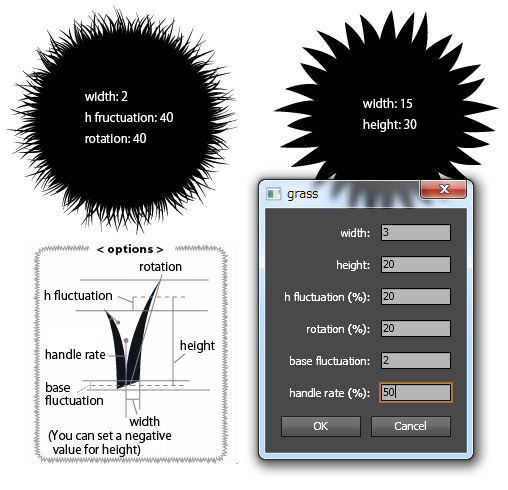
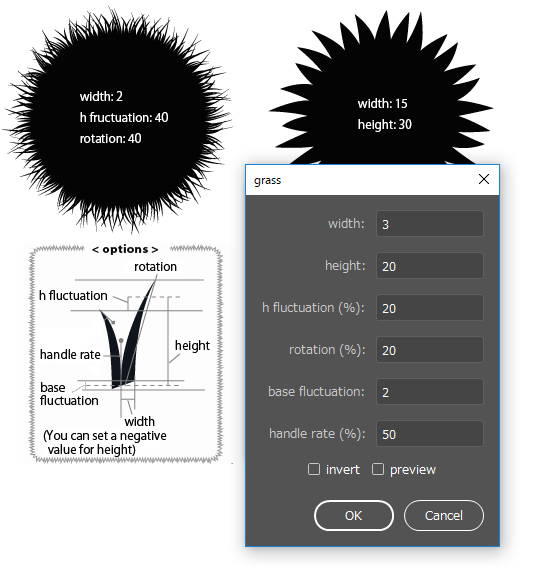
etc/grass.jsx : add an "invert" checkbox and a preview button

diff --git a/etc/grass.jsx b/etc/grass.jsx
@@ -4,11 +4,15 @@
 // See the description image for the optional values.
 
 // Note:
-// Smaller width value causes longer calculation time.
+// * Smaller width value causes longer calculation time.
+// * Because of this issue, preview checkbox is forced unchecked
+//   when any value in the dialog is changed. Please check it
+//   manually again to draw a preview.
 
 // test env: Adobe Illustrator CS3, CS6 (Windows)
 // 2013-01-26
 // 2016-11-26 modify not to activate textedit (fix a problem which forces an extra click after closing the dialog)
+// 2017-01-18 add an "invert" checkbox and a preview button
 
 // Copyright(c) 2013 Hiroyuki Sato
 // https://github.com/shspage
@@ -19,6 +23,16 @@
 function main(){
     const SCRIPTNAME = "grass";
 
+    var conf = {
+        width : 3.0,
+        height : 20.0,
+        hfluc : 20.0,
+        hrot : 20.0,
+        bfluc : 2.0,
+        hrate : 50.0,
+        invert : false
+    };
+
     var paths = [];
     getPathItemsInSelection( 1, paths );
     if( paths.length < 1 ){
@@ -26,28 +40,116 @@ function main(){
         return;
     }
 
+    var selectedSpec = getSelectedSpec(paths);
+
+    // dialog
+    var previewed = false;
+    
+    var clearPreview = function(){
+        if( previewed ){
+            try{
+                undo();
+                applySelectedSpec( paths, selectedSpec );
+            } catch(e){
+                alert(e);
+            } finally {
+                previewed = false;
+            }
+        }
+    }
+    
+    var drawPreview = function(){
+        var ok = getValues();
+        if(ok){
+            try{
+                createGrass(paths, conf);
+            } finally {
+                previewed = true;
+            }
+        }
+    }
+    
     var win = new Window("dialog", SCRIPTNAME);
     win.alignChildren = "right";
     
     var ets = {
-        et_width : new EditTextWithLabel(win, "width:", 3.0),
-        et_height : new EditTextWithLabel(win, "height:", 20.0),
-        et_hfluc : new EditTextWithLabel(win, "h fluctuation (%):", 20.0),
-        et_hrot : new EditTextWithLabel(win, "rotation (%):", 20.0),
-        et_bfluc : new EditTextWithLabel(win, "base fluctuation:", 2.0),
-        et_hrate : new EditTextWithLabel(win, "handle rate (%):", 50)
+        et_width : new EditTextWithLabel(win, "width:", conf.width),
+        et_height : new EditTextWithLabel(win, "height:", conf.height),
+        et_hfluc : new EditTextWithLabel(win, "h fluctuation (%):", conf.hfluc),
+        et_hrot : new EditTextWithLabel(win, "rotation (%):", conf.hrot),
+        et_bfluc : new EditTextWithLabel(win, "base fluctuation:", conf.bfluc),
+        et_hrate : new EditTextWithLabel(win, "handle rate (%):", conf.hrate)
         };
+
+    // preview checkbox
+    var chkGrp = win.add("group");
+    chkGrp.alignment = "center";
+    var invertChk = chkGrp.add("checkbox", undefined, "invert");
+    var previewChk = chkGrp.add("checkbox", undefined, "preview");
+
+    for(var et in ets){
+        ets[et].bindOnChangeHandler(previewChk);
+    }
     
-    addOkCancelButtons(win, (function(){
-        var ok = true;
-        if(ets.et_width.getValue() <= 0 ){
-            alert("The value for the width is invalid");
-            ok = false;
-        } else {
-            createGrass(paths, ets);
+    // buttons
+    var btnGrp = win.add("group");
+    var btn_ok = btnGrp.add("button", undefined, "OK");
+    var btn_cancel = btnGrp.add("button", undefined, "Cancel");
+
+    var getValues = function(){
+        conf.width  = ets.et_width.getValue() / 2.0;
+        conf.height = ets.et_height.getValue();
+        conf.hfluc  = ets.et_hfluc.getValue() / 100.0;
+        conf.hrot   = ets.et_hrot.getValue() / 100.0 * conf.height;
+        conf.bfluc  = ets.et_bfluc.getValue();
+        conf.hrate  = ets.et_hrate.getValue() / 100.0;
+        conf.invert = invertChk.value;
+
+        if(conf.width <= 0 ){
+            alert("ERROR: The value for the width is invalid");
+            return false;
         }
-        return ok;
-    }));
+        
+        return true;
+    }
+        
+    var processPreview = function( is_preview ){
+        if( ! is_preview || previewChk.value){
+            win.enabled = false;
+            clearPreview();
+            drawPreview();
+            if( is_preview ) redraw();
+            win.enabled = true;
+        }
+    }
+    
+    invertChk.onClick = function(){
+        previewChk.value = false;
+    }
+
+    previewChk.onClick = function(){
+        if( this.value ){
+            processPreview( true );
+        } else {
+            if( previewed ){
+                clearPreview();
+                redraw();
+            }
+        }
+    }
+
+    btn_ok.onClick = function(){
+        if(!previewed) processPreview( false );
+        win.close();
+    }
+    
+    btn_cancel.onClick = function(){
+        win.enabled = false;
+        clearPreview();
+        win.enabled = true;
+        win.close();
+    }
+
     win.show();
 }
 // -----------------------------------------------
@@ -62,30 +164,26 @@ EditTextWithLabel.prototype = {
     getValue : function(){
         var v = parseFloat(this.et.text);
         return isNaN(v) ? 0 : v;
+    },
+    bindOnChangeHandler : function(previewChk){
+        this.et.onChange = function(){
+            previewChk.value = false;
+        }
     }
 }
 // -----------------------------------------------
-function addOkCancelButtons(win, func){
-    var gr = win.add("group");
-    var btn_ok = gr.add("button", undefined, "OK");
-    var btn_cancel = gr.add("button", undefined, "Cancel");
-    btn_ok.onClick = function(){
-        if( func() ) win.close();
-    };
-}
-// -----------------------------------------------
-function createGrass(paths, ets){
+function createGrass(paths, conf){
     const HPI = Math.PI / 2;
     const XPI = Math.PI * 1.5; // rotate range of the heads
 
     // get the values from dialog
-    var width       =  ets.et_width.getValue() / 2.0;
-    var height_orig = ets.et_height.getValue();
-    var hfluc        = ets.et_hfluc.getValue() / 100.0;
-    var hrot        = ets.et_hrot.getValue() / 100.0 * height_orig;
-    var bfluc        = ets.et_bfluc.getValue();
-    var hrate_orig  = ets.et_hrate.getValue() / 100.0;
-    
+    var width       = conf.width;
+    var hfluc       = conf.hfluc;
+    var hrot        = conf.hrot;
+    var bfluc       = conf.bfluc;
+    var height_orig = conf.height;
+    var hrate_orig  = conf.hrate;
+
     if(height_orig < 0) hrate_orig *= -1;
     
     try{
@@ -109,6 +207,11 @@ function createGrass(paths, ets){
                     hrate *= -1;
                 }
             }
+            if(conf.invert){
+                height *= -1;
+                hrate *= -1;
+            }
+            
             var len, v, pnt;
             for(var j=0; j < pnts.length - 1; j+=2){
                 var k = j + 1;
@@ -389,5 +492,29 @@ function extractPaths(items, pp_length_limit, paths){
       extractPaths( items[i].pathItems, pp_length_limit , paths );
     }
   }
+}
+// -----------------------------------------------
+function getSelectedSpec( paths ){
+    var specs = [];
+    var j, pp, spec;
+    for( var i = 0; i < paths.length; i++ ){
+        pp = paths[i].pathPoints;
+        spec = [];
+        for( j = 0; j < pp.length; j++ ){
+            spec.push( pp[j].selected );
+        }
+        specs.push( spec );
+    }
+    return specs;
+}
+// -----------------------------------------------
+function applySelectedSpec( paths, specs ){
+    var j, pp;
+    for( var i = 0; i < paths.length; i++ ){
+        pp = paths[i].pathPoints;
+        for( j = 0; j < pp.length; j++ ){
+            pp[j].selected = specs[i][j];
+        }
+    }
 }
 main();

diff --git a/etc/readme.md b/etc/readme.md
@@ -25,7 +25,8 @@ See the description image for the optional values.
 
 **Notice:**
 
-Smaller width value causes longer calculation time.
+Smaller width value causes longer calculation time.  
+Because of this issue, preview checkbox is forced unchecked when any value in the dialog is changed. Please check it manually again to draw a preview.
 
 inscribedCircle.jsx
 ======================
